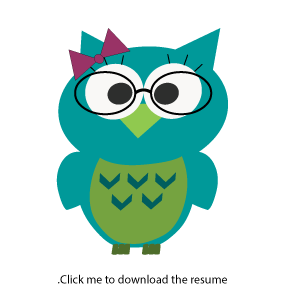
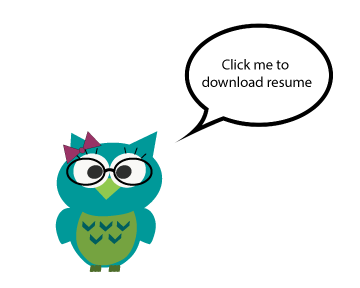
2

diff --git a/css/styles.css b/css/styles.css
@@ -97,7 +97,7 @@ body {
 }
 
 .aa img {
-	margin-top: 400px;
+	margin-top: 380px;
 	margin-left: 98px;
 	postion: relative;
 }
